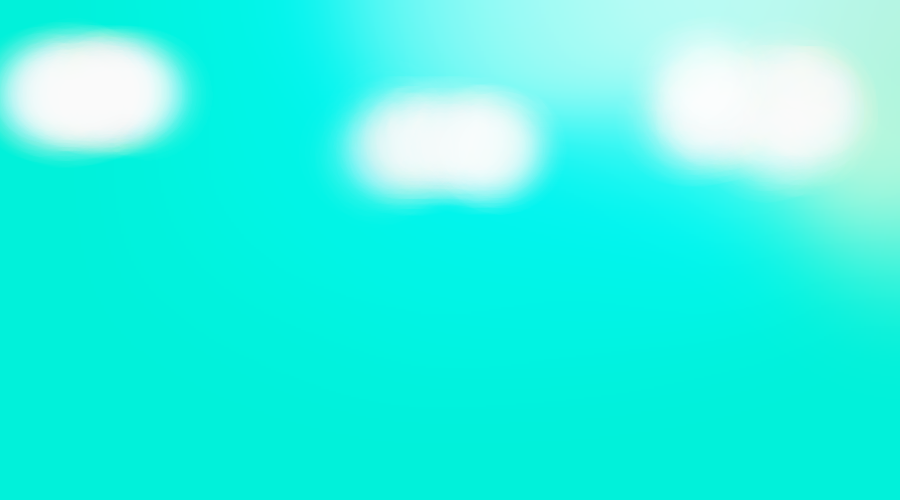
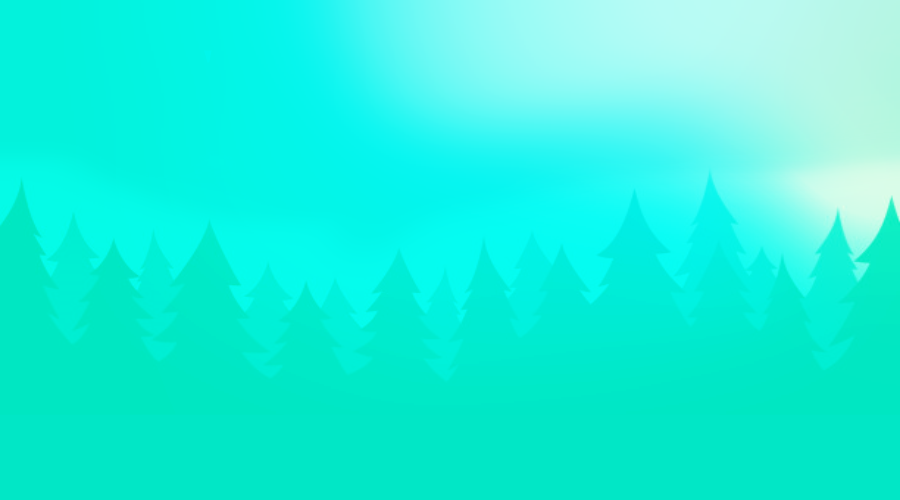
Clouds are added

diff --git a/Intro to pygame.py b/Intro to pygame.py
@@ -1,3 +1,8 @@
+"""
+	NOTE:
+		Adding clouds to the BackGround
+"""
+
 import pygame
 from random import randint, choice
 
@@ -80,7 +85,7 @@ class Enemy(pygame.sprite.Sprite):
 			FLY_SURF_2 = pygame.image.load("Graphics/Fly/Fly2.png").convert_alpha()
 			self.SURFS = [FLY_SURF_1, FLY_SURF_2]
 			
-			Y_POS = 310
+			Y_POS = FLOOR - 90
 			self.enemy_speed = 8
 
 		self.obstacle_index = 0
@@ -107,8 +112,30 @@ class Enemy(pygame.sprite.Sprite):
 		self.animation()
 		self.movement() 
 
+class Cloud(pygame.sprite.Sprite):
 
-#screen
+	def __init__(self, num):
+		super().__init__()
+
+		CLOUD_1 = pygame.image.load("Graphics/Clouds/cloud1.png").convert_alpha()
+		CLOUD_2 = pygame.image.load("Graphics/Clouds/cloud2.png").convert_alpha()
+		CLOUD_3 = pygame.image.load("Graphics/Clouds/cloud3.png").convert_alpha()
+		self.CLOUDS = [CLOUD_1, CLOUD_2, CLOUD_3]
+
+		self.image = self.CLOUDS[num]
+		self.rect = pygame.rect.Rect(800, 0, 200, 200)
+
+	def movement(self):
+		self.rect.x -= 1
+
+		if self.rect.right <= 0:
+			self.kill()
+
+	def update(self):
+		self.movement()
+
+
+# screen
 WIDTH = 800
 HEIGHT = 500
 
@@ -116,7 +143,7 @@ screen = pygame.display.set_mode((WIDTH,HEIGHT))
 pygame.display.set_caption("Intro to pygame")
 
 
-#global variables
+# global variables
 running = True
 
 CLOCK = pygame.time.Clock()
@@ -125,11 +152,24 @@ FONT = pygame.font.Font("Fonts/font1.ttf",35)
 
 game_state = "OUTRO"
 
-FLOOR = 400
+FLOOR = 430
 
 BG_MUSIC = pygame.mixer.Sound("Audio/music.wav")
-BG_MUSIC.set_volume(0.6)
+BG_MUSIC.set_volume(0.5)
 BG_MUSIC.play(loops = -1)
+
+# Groups
+Player = pygame.sprite.GroupSingle(sprite=Player())
+Enemies = pygame.sprite.Group()
+Clouds = pygame.sprite.Group()
+Clouds.add(Cloud(0))
+
+# Timers
+obstacle_adder = pygame.USEREVENT + 1
+pygame.time.set_timer(obstacle_adder, 1400)
+
+cloud_adder = pygame.USEREVENT + 2
+pygame.time.set_timer(cloud_adder, randint(5*1000, 15*1000))
 
 
 # ACTIVE SCREEN
@@ -148,12 +188,6 @@ def SCORE_DISPLAY():
 
 	return score
 
-Player = pygame.sprite.GroupSingle(sprite=Player())
-Enemies = pygame.sprite.Group()
-
-# 'Obstacle adder' Event trigger ( userevent )
-obstacle_adder = pygame.USEREVENT + 1
-pygame.time.set_timer(obstacle_adder, 1400)
 
 #checking collision
 def IS_COLLIDE():
@@ -194,6 +228,10 @@ while running:
 			if event.type == obstacle_adder:
 				Enemies.add(Enemy(choice(["snail","snail","snail","fly"])))
 
+			# Cloud adder
+			if event.type == cloud_adder:
+				Clouds.add(Cloud(choice([0,1,2])))
+
 		elif game_state == "OUTRO":
 
 			if event.type == pygame.KEYDOWN:
@@ -204,6 +242,9 @@ while running:
 
 					Enemies.empty()
 
+					Clouds.empty()
+					Clouds.add(Cloud(2))
+
 					restart_time = pygame.time.get_ticks()//1000
 
 
@@ -211,13 +252,18 @@ while running:
 		#screen
 		screen.blit(BG_SURF, (0,0))
 		screen.blit(GROUND_SURF, (0,FLOOR))
-		score = SCORE_DISPLAY()
 
+		#Drawing the Groups
 		Player.update("ACTIVE")
 		Player.draw(screen)
 
 		Enemies.update()
 		Enemies.draw(screen)
+
+		Clouds.update()
+		Clouds.draw(screen)
+
+		score = SCORE_DISPLAY()
 
 		if IS_COLLIDE(): game_state = "OUTRO"
 
